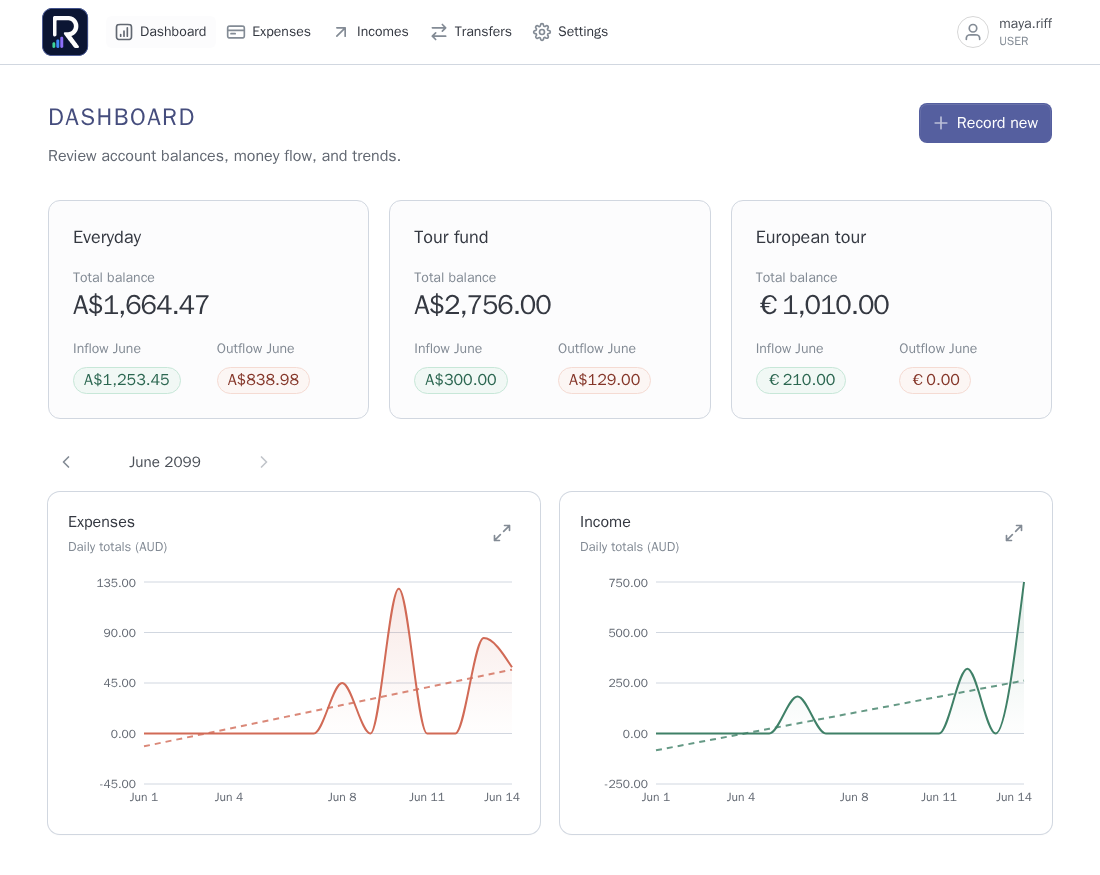
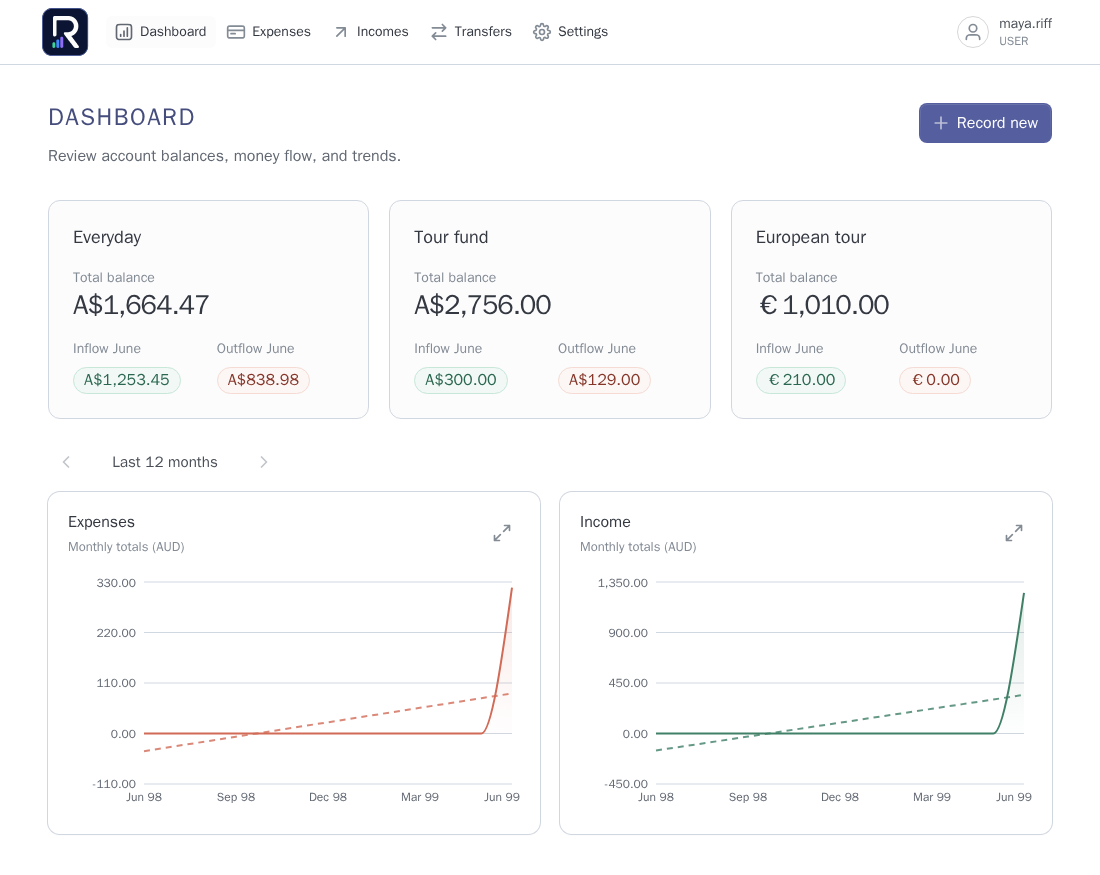
feat: default dashboard to last 12 months

diff --git a/src/test/kotlin/io/orangebuffalo/renalo/DashboardPagePlaywrightTest.kt b/src/test/kotlin/io/orangebuffalo/renalo/DashboardPagePlaywrightTest.kt
@@ -115,10 +115,11 @@ class DashboardPagePlaywrightTest : IntegrationTestSupport() {
         page.navigate(server.url.toString() + "/tracking")
 
         assertThat(page.getByRole(AriaRole.BUTTON, Page.GetByRoleOptions().setName("Next date range"))).isDisabled()
-        page.getByRole(AriaRole.BUTTON, Page.GetByRoleOptions().setName("June 2099").setExact(true)).click()
+        page.getByRole(AriaRole.BUTTON, Page.GetByRoleOptions().setName("Last 12 months").setExact(true)).click()
         val dateDialog = page.getByRole(AriaRole.DIALOG, Page.GetByRoleOptions().setName("Date range filter"))
         assertThat(dateDialog.getByRole(AriaRole.BUTTON, Locator.GetByRoleOptions().setName("Last 12 months"))).isVisible()
         assertThat(dateDialog.getByRole(AriaRole.BUTTON, Locator.GetByRoleOptions().setName("Next month"))).isDisabled()
+        dateDialog.getByRole(AriaRole.BUTTON, Locator.GetByRoleOptions().setName("This month").setExact(true)).click()
         assertThat(
             dateDialog.locator("[role='gridcell'][aria-disabled='true']")
                 .filter(Locator.FilterOptions().setHasText(Pattern.compile("^15$")))

diff --git a/ui/src/components/DateRangeFilter.tsx b/ui/src/components/DateRangeFilter.tsx
@@ -239,9 +239,10 @@ export function createDefaultTransactionDateFilter(now: Date) {
 export function restoreStoredDateFilter(
   storedValue: string | null,
   now: Date,
+  defaultPreset: DateFilterPreset = "THIS_MONTH",
 ): TransactionDateFilterValue {
   if (!storedValue) {
-    return createDefaultTransactionDateFilter(now);
+    return filterForPreset(defaultPreset, now);
   }
 
   try {
@@ -268,7 +269,7 @@ export function restoreStoredDateFilter(
     // Invalid browser storage falls back to the normal default.
   }
 
-  return createDefaultTransactionDateFilter(now);
+  return filterForPreset(defaultPreset, now);
 }
 
 export function storeDateFilter(value: TransactionDateFilterValue) {

diff --git a/ui/src/routes/TrackingPage.tsx b/ui/src/routes/TrackingPage.tsx
@@ -46,6 +46,7 @@ export function TrackingPage() {
     restoreStoredDateFilter(
       window.localStorage.getItem(dashboardDateFilterStorageKey),
       new Date(),
+      "LAST_12_MONTHS",
     ),
   );
   const [expenseTimeSeries, setExpenseTimeSeries] = useState<
